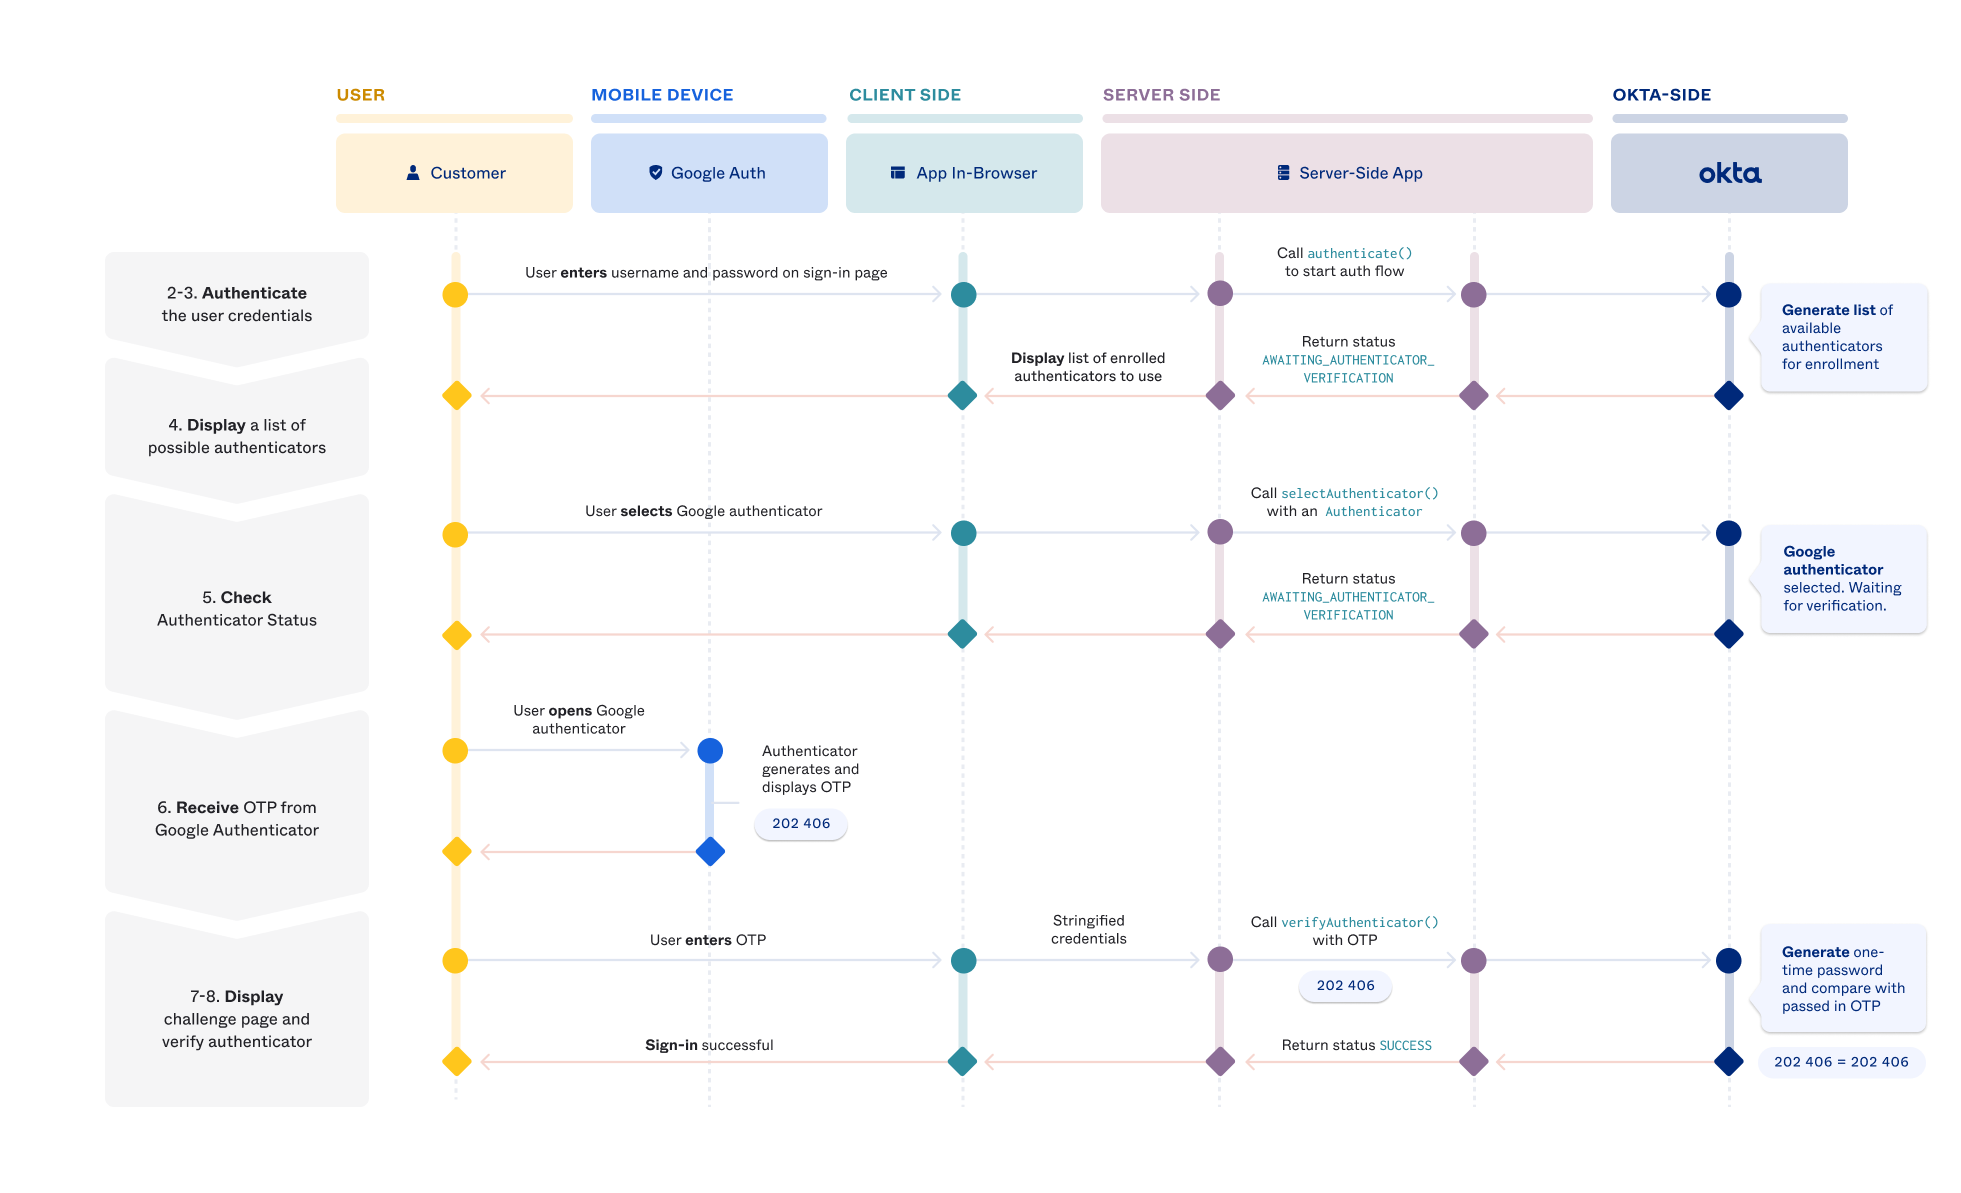
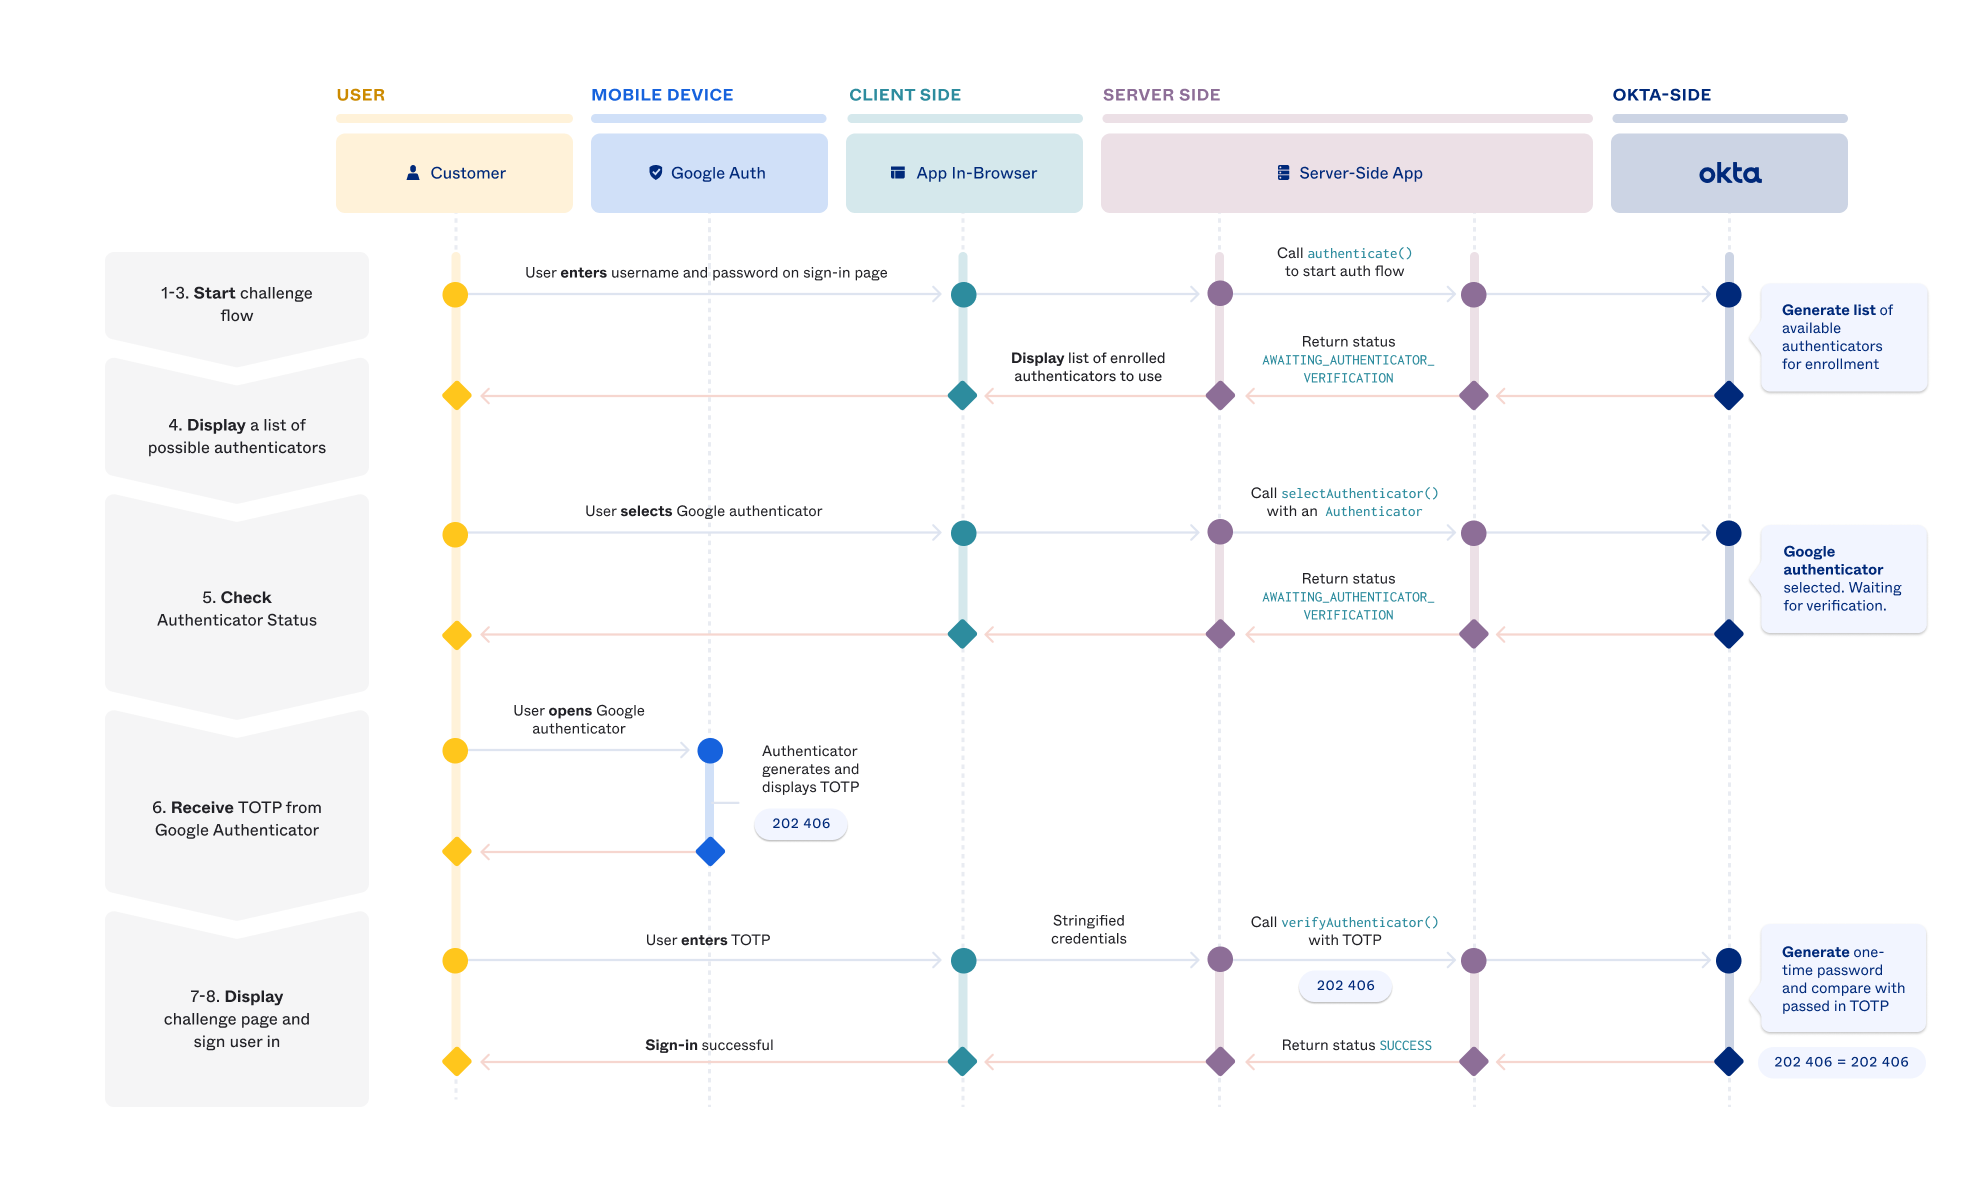
Final changes to Java Google auth guide

diff --git a/packages/@okta/vuepress-site/docs/guides/authenticators-google-authenticator/main/java/enrollmentintegrationsteps.md b/packages/@okta/vuepress-site/docs/guides/authenticators-google-authenticator/main/java/enrollmentintegrationsteps.md
@@ -1,8 +1,11 @@
 ### 1: Build a sign-in page on the client
 
 Build a sign-in page that captures the user's name and password.
+
 <div class="common-image-format bordered-image">
+
 ![Basic sign-in dialog](/img/authenticators/java-authenticators-signinform.png)
+
 </div>
 
 ### 2: Authenticate the user credentials
@@ -51,39 +54,36 @@ switch (authenticationStatus) {
 
 ### 4: Display a list of possible authenticators
 
-You need to handle two other authenticator status values in addition to `SUCCESS` and `PASSWORD_EXPIRED` for an Okta org that is configured using this guide:
-
-* `AWAITING_PROFILE_ENROLLMENT` that is covered in this section
-* `AWAITING_AUTHENTICATOR_ENROLLMENT_SELECTION` that is covered in [the challenge flow section](#integrate-sdk-for-authenticator-challenge).
-
 The names of the available authenticators are found in the `authenticators` collection of the `AuthenticationResponse`.
 
 Display a selector with the list of available authenticators:
 
 ```java
-case AWAITING_AUTHENTICATOR_ENROLLMENT_SELECTION:
-
-    // There are multiple potential factors, for this it is assumed that
-    // Google Authenticator (OTP) is used
-    Authenticator authenticator = authenticationResponse.getAuthenticators().stream()
-            .filter(auth -> auth.getType().equals("otp"))
-            .findFirst() // find the first "otp" factor or throw an exception
-            .orElseThrow(() -> {
-                String availableFactors = authenticationResponse.getAuthenticators().stream()
-                        .map(auth -> auth.getLabel() + " - " + auth.getType())
-                        .collect(Collectors.joining(", "));
-                return new RuntimeException("OTP factor not found, existing options: " + availableFactors);
-            });
-
-    // Update the response with the selected authenticator and send the result back to the server.
-    authenticationResponse = idxAuthenticationWrapper.selectAuthenticator(proceedContext, authenticator);
+// There are multiple potential factors, for this it is assumed that
+// Google Authenticator (OTP) is used
+Authenticator authenticator = authenticationResponse.getAuthenticators().stream()
+      .filter(auth -> auth.getType().equals("otp"))
+      .findFirst() // find the first "otp" factor or throw an exception
+      .orElseThrow(() -> {
+            String availableFactors = authenticationResponse.getAuthenticators().stream()
+                  .map(auth -> auth.getLabel() + " - " + auth.getType())
+                  .collect(Collectors.joining(", "));
+            return new RuntimeException("OTP factor not found, existing options: " + availableFactors);
+      });
 ```
 
-### 5: Retrieve shared secret and QR Code
+### 5: Retrieve shared secret and QR code
 
-The next `AuthenticationResponse` object will contain information about the OTP factor and will contain a QR Code and shared secret.
+When the user selects the Google Authenticator factor, call `selectAuthenticator()`, passing in the current context object and authenticator choice as parameters.
 
-> **NOTE:** the _shared secret_ is typically used when a QR code cannot be displayed or scanned.
+```java
+// Update the response with the selected authenticator and send the result back to the server.
+authenticationResponse = idxAuthenticationWrapper.selectAuthenticator(proceedContext, authenticator);
+```
+
+The returned `AuthenticationResponse` object contains a QR Code and shared secret.
+
+### 6: Display shared secret and QR Code
 
 Display the QR code and/or shared secret to the user, so they can register the factor with Google Authenticator.
 
@@ -92,10 +92,44 @@ authenticationResponse.getContextualData().getSharedSecret()
 authenticationResponse.getContextualData().getQrcode()
 ```
 
-Prompt the user for a OTP code, and continue the authentication flow:
+For example
+
+<div class="common-image-format bordered-image">
+
+![A page showing a QR code and a shared secret to enroll a mobile device running Google Authenticator](/img/authenticators/dotnet-authenticators-google-enroll-page.png)
+
+</div>
+
+> **NOTE:** The shared secret is typically used when a QR code cannot be displayed or scanned.
+
+### 7: Copy shared secret to Google Authenticator
+
+After the shared secret appears, the user installs the Google Authenticator app on their mobile device if it's not already installed. Next, they add the secret code to the Google Authenticator app by either taking a photo of the QR code or manually entering the secret string. Once added, Google Authenticator displays the time-based one-time password (TOTP) for the newly added account.
+
+<div class="common-image-format">
+
+![A time-based one-time password being shown in Google Authenticator](/img/authenticators/authenticators-google-one-time-password.png)
+
+</div>
+
+### 8: Challenge user for TOTP
+
+Prompt the user for the TOTP. Call `verifyAuthenticator()` passing in the TOTP as a parameter to verify it with Identity Engine:
 
 ```java
-// Send the code to Okta and handle the next response.
-authenticationResponse = idxAuthenticationWrapper
-    .verifyAuthenticator(proceedContext, new VerifyAuthenticatorOptions(code));
+case AWAITING_AUTHENTICATOR_VERIFICATION:
+    // confirm the TOTP code with Okta and to back into the state machine
+    authenticationResponse = idxAuthenticationWrapper
+        .verifyAuthenticator(proceedContext, new VerifyAuthenticatorOptions(code));
+```
+
+### 9: Sign user in
+
+After successful user authentication, Identity Engine returns an `AuthenticationStatus` of `SUCCESS`. Call `getTokenResponse()` to retrieve the user's ID and access tokens.
+
+```java
+case SUCCESS:
+    TokenResponse tokenResponse = authenticationResponse.getTokenResponse();
+    String accessToken = tokenResponse.getAccessToken();
+    … your code …
 ```

diff --git a/packages/@okta/vuepress-site/docs/guides/authenticators-google-authenticator/main/java/challengeintegrationsteps.md b/packages/@okta/vuepress-site/docs/guides/authenticators-google-authenticator/main/java/challengeintegrationsteps.md
@@ -1,4 +1,4 @@
-### 1 - 4: Sign-in and Select Authenticator
+### 1 - 4: Start flow and display authenticator list
 
 The challenge flow follows the same first four steps as the [enrollment flow](#integrate-sdk-for-authenticator-enrollment):
 
@@ -23,28 +23,19 @@ case AWAITING_AUTHENTICATOR_SELECTION:
 
 > **NOTE:**  This state is skipped if your application's sign-on policy contains only one factor.
 
-### 6: Receive OTP from Google Authenticator
+### 6: Receive TOTP from Google Authenticator 
 
 The user's copy of Google Authenticator now displays the time-based one-time password (TOTP) for the newly added account which they will enter into a challenge page.
 
+<div class="common-image-format">
+
 ![A one-time password being shown in Google Authenticator](/img/authenticators/authenticators-google-one-time-password.png)
 
-Add a page that prompts the user for the TOTP. Call `verifyAuthenticator()` passing in the TOTP as a parameter to verify it with Identity Engine:
+</div>
 
-```java
-case AWAITING_AUTHENTICATOR_VERIFICATION:
-    // confirm the TOTP code with Okta and to back into the state machine
-    authenticationResponse = idxAuthenticationWrapper
-        .verifyAuthenticator(proceedContext, new VerifyAuthenticatorOptions(code));
-```
+### 7 - 8: Display challenge page and process password
 
-### 7: Handle the Success status
+The challenge flow now follows the same final steps as the [Enrollment flow](#_8-challenge-user-for-totp):
 
-After successful user authentication, Identity Engine returns an `AuthenticationStatus` of `SUCCESS`. Call `getTokenResponse()` to retrieve their ID and access tokens.
-
-```java
-case SUCCESS:
-    TokenResponse tokenResponse = authenticationResponse.getTokenResponse();
-    String accessToken = tokenResponse.getAccessToken();
-    … your code …
-```
+* Challenge user for TOTP
+* Sign user in

diff --git a/packages/@okta/vuepress-site/docs/guides/authenticators-google-authenticator/main/java/samplecode.md b/packages/@okta/vuepress-site/docs/guides/authenticators-google-authenticator/main/java/samplecode.md
@@ -1,1 +1,1 @@
-* [Sample Java Application using Embedded Authentication with the IDX SDK](https://github.com/okta/okta-idx-java/tree/master/samples/embedded-auth-with-sdk)
+[Sample Java Application using Embedded Authentication with the IDX SDK](https://github.com/okta/okta-idx-java/tree/master/samples/embedded-auth-with-sdk)

diff --git a/packages/@okta/vuepress-site/docs/guides/authenticators-google-authenticator/main/aspnet/challengeintegrationsteps.md b/packages/@okta/vuepress-site/docs/guides/authenticators-google-authenticator/main/aspnet/challengeintegrationsteps.md
@@ -1,4 +1,4 @@
-### 1 - 4: Sign-in and Select Authenticator
+### 1 - 4: Start flow and display authenticator list
 
 The challenge flow follows the same first four steps as the [enrollment flow](#integrate-sdk-for-authenticator-enrollment):
 
